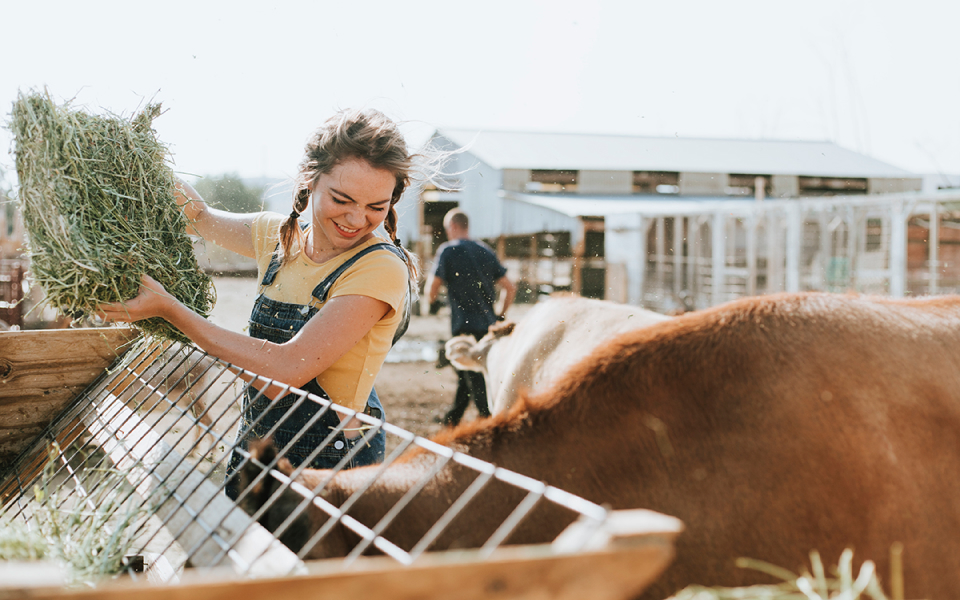
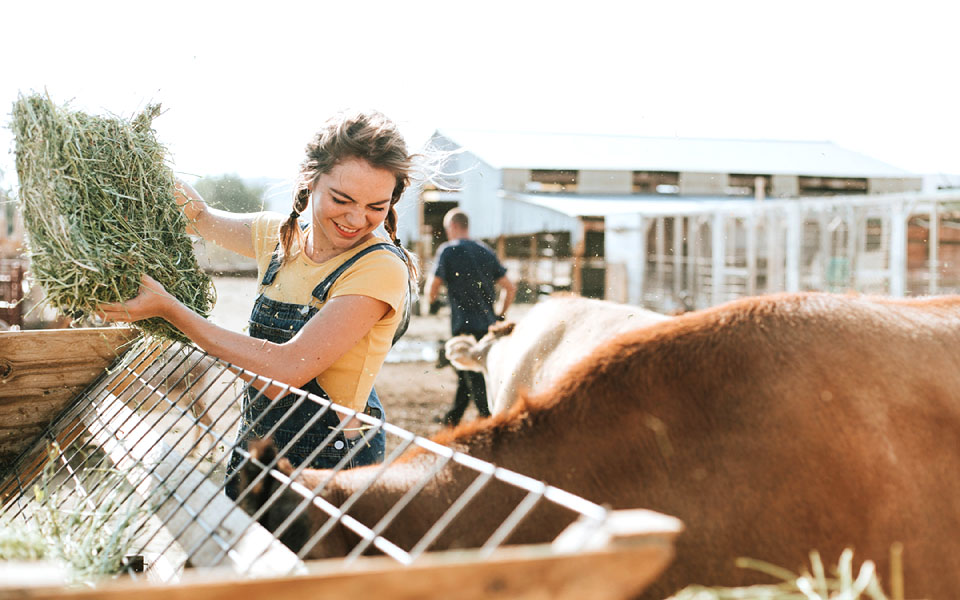
Contact Page Desktop & Tablet

diff --git a/src/pages/contact/index.js b/src/pages/contact/index.js
@@ -4,7 +4,7 @@ import Image from "next/image";
 export default function Contact() {
   return (
     <main>
-      <div className="flex flex-col lg:flex-row h-screen items-center w-screen">
+      <div className="flex flex-col lg:flex-row h-screen items-center lg:justify-between w-screen mx-auto">
         <Image
           src="/images/contactPageMobile.jpg"
           width={514}
@@ -13,13 +13,13 @@ export default function Contact() {
           className="flex md:hidden relative h-[600px] w-auto"
         />
         <Image
-          src="/images/contactPageDesktop.jpg"
+          src="/images/contactPageDesktopC.jpg"
           width={960}
           height={600}
           alt="Contact Page Image"
-          className="md:flex hidden relative h-[70vh] ml-12 mt-20 w-[50vw]"
+          className="md:flex hidden relative lg:h-[70vh] lg:ml-12 mt-20 md:[80vw] lg:w-[50vw]"
         />
-        <div className="hidden md:flex mt-24 ml-[25%]">
+        <div className="hidden md:flex mt-32 lg:ml-[25%] items-center lg:h-[70vh] lg:w-[70vw]">
           <ContactCard />
         </div>
         <div className="md:hidden absolute h-[370px] w-full bottom-0 bg-white rounded-t-[20px]">
